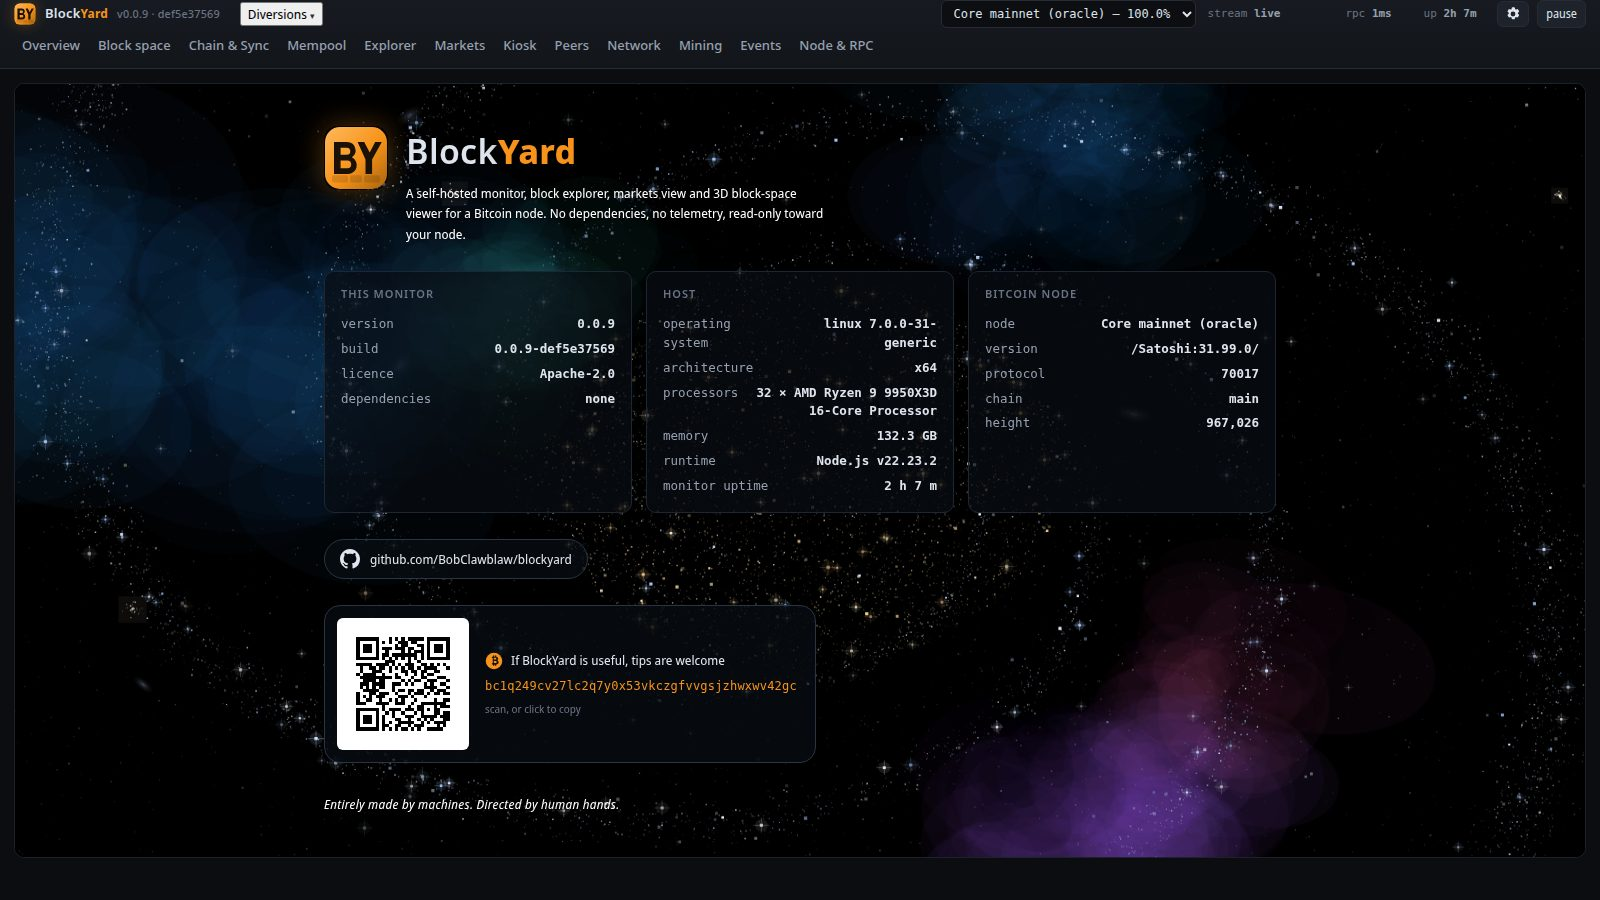
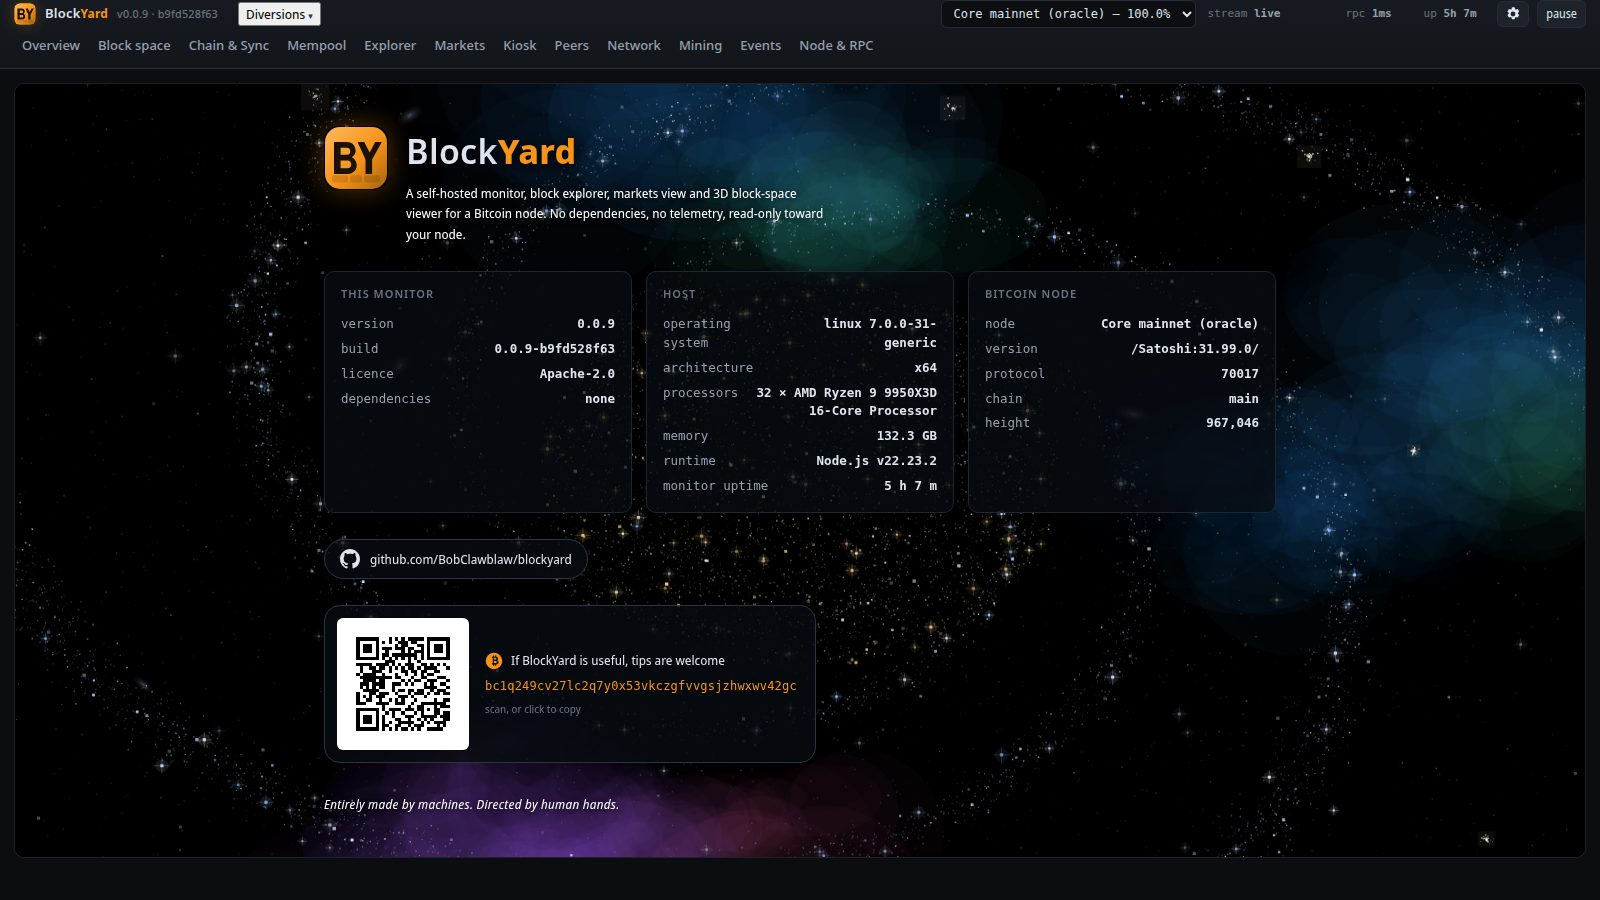
about: the donation QR is a PNG -- Safari painted the inline SVG's ground and none of its modules
Reported from the first Mac install (2026-09-15): a blank white square beside
the address. Chrome painted the SVG; WebKit painted its <rect> and not one of
the 800 module rects in the <path> inside that button. The QR is a bitmap now
(4 px a module, quiet zone included), written by the same script from the
same encoder, checked to decode to the address, served from the checkout and
crisp-edged in CSS. Re-shot for docs/images/about.jpg.

Claude-Session: https://claude.ai/code/session_01VUGT6cgEeqoW8d5V7E6Vng

diff --git a/public/index.html b/public/index.html
@@ -342,8 +342,10 @@
           <!-- The donation address: one click copies it (operator, 2026-09-14). A button, not a link:
                there is nowhere to go, and the address is the whole point. -->
           <button type="button" class="abdon" id="abDonate" data-copy="bc1q249cv27lc2q7y0x53vkczgfvvgsjzhwxwv42gc" title="click to copy the address">
-            <!-- The QR is the address itself, generated once (scripts/donate-qr.py) and checked to decode back to it. -->
-            <svg class="abqr" viewBox="0 0 41 41" width="132" height="132" role="img" aria-label="QR code of the donation address" shape-rendering="crispEdges"><rect width="41" height="41" fill="#fff"/><path fill="#000" d="M6 6h1v1h-1zM7 6h1v1h-1zM8 6h1v1h-1zM9 6h1v1h-1zM10 6h1v1h-1zM11 6h1v1h-1zM12 6h1v1h-1zM16 6h1v1h-1zM18 6h1v1h-1zM20 6h1v1h-1zM22 6h1v1h-1zM23 6h1v1h-1zM24 6h1v1h-1zM25 6h1v1h-1zM26 6h1v1h-1zM28 6h1v1h-1zM29 6h1v1h-1zM30 6h1v1h-1zM31 6h1v1h-1zM32 6h1v1h-1zM33 6h1v1h-1zM34 6h1v1h-1zM6 7h1v1h-1zM12 7h1v1h-1zM14 7h1v1h-1zM16 7h1v1h-1zM19 7h1v1h-1zM20 7h1v1h-1zM21 7h1v1h-1zM23 7h1v1h-1zM24 7h1v1h-1zM28 7h1v1h-1zM34 7h1v1h-1zM6 8h1v1h-1zM8 8h1v1h-1zM9 8h1v1h-1zM10 8h1v1h-1zM12 8h1v1h-1zM18 8h1v1h-1zM20 8h1v1h-1zM21 8h1v1h-1zM25 8h1v1h-1zM26 8h1v1h-1zM28 8h1v1h-1zM30 8h1v1h-1zM31 8h1v1h-1zM32 8h1v1h-1zM34 8h1v1h-1zM6 9h1v1h-1zM8 9h1v1h-1zM9 9h1v1h-1zM10 9h1v1h-1zM12 9h1v1h-1zM14 9h1v1h-1zM15 9h1v1h-1zM16 9h1v1h-1zM18 9h1v1h-1zM19 9h1v1h-1zM20 9h1v1h-1zM22 9h1v1h-1zM23 9h1v1h-1zM26 9h1v1h-1zM28 9h1v1h-1zM30 9h1v1h-1zM31 9h1v1h-1zM32 9h1v1h-1zM34 9h1v1h-1zM6 10h1v1h-1zM8 10h1v1h-1zM9 10h1v1h-1zM10 10h1v1h-1zM12 10h1v1h-1zM15 10h1v1h-1zM20 10h1v1h-1zM22 10h1v1h-1zM24 10h1v1h-1zM25 10h1v1h-1zM26 10h1v1h-1zM28 10h1v1h-1zM30 10h1v1h-1zM31 10h1v1h-1zM32 10h1v1h-1zM34 10h1v1h-1zM6 11h1v1h-1zM12 11h1v1h-1zM14 11h1v1h-1zM15 11h1v1h-1zM17 11h1v1h-1zM18 11h1v1h-1zM19 11h1v1h-1zM20 11h1v1h-1zM21 11h1v1h-1zM22 11h1v1h-1zM23 11h1v1h-1zM24 11h1v1h-1zM26 11h1v1h-1zM28 11h1v1h-1zM34 11h1v1h-1zM6 12h1v1h-1zM7 12h1v1h-1zM8 12h1v1h-1zM9 12h1v1h-1zM10 12h1v1h-1zM11 12h1v1h-1zM12 12h1v1h-1zM14 12h1v1h-1zM16 12h1v1h-1zM18 12h1v1h-1zM20 12h1v1h-1zM22 12h1v1h-1zM24 12h1v1h-1zM26 12h1v1h-1zM28 12h1v1h-1zM29 12h1v1h-1zM30 12h1v1h-1zM31 12h1v1h-1zM32 12h1v1h-1zM33 12h1v1h-1zM34 12h1v1h-1zM15 13h1v1h-1zM16 13h1v1h-1zM17 13h1v1h-1zM22 13h1v1h-1zM25 13h1v1h-1zM6 14h1v1h-1zM7 14h1v1h-1zM8 14h1v1h-1zM9 14h1v1h-1zM10 14h1v1h-1zM12 14h1v1h-1zM13 14h1v1h-1zM14 14h1v1h-1zM15 14h1v1h-1zM17 14h1v1h-1zM19 14h1v1h-1zM21 14h1v1h-1zM22 14h1v1h-1zM23 14h1v1h-1zM26 14h1v1h-1zM27 14h1v1h-1zM29 14h1v1h-1zM31 14h1v1h-1zM33 14h1v1h-1zM7 15h1v1h-1zM10 15h1v1h-1zM11 15h1v1h-1zM13 15h1v1h-1zM14 15h1v1h-1zM16 15h1v1h-1zM18 15h1v1h-1zM20 15h1v1h-1zM22 15h1v1h-1zM23 15h1v1h-1zM25 15h1v1h-1zM27 15h1v1h-1zM28 15h1v1h-1zM29 15h1v1h-1zM30 15h1v1h-1zM34 15h1v1h-1zM7 16h1v1h-1zM11 16h1v1h-1zM12 16h1v1h-1zM13 16h1v1h-1zM16 16h1v1h-1zM20 16h1v1h-1zM21 16h1v1h-1zM23 16h1v1h-1zM24 16h1v1h-1zM26 16h1v1h-1zM27 16h1v1h-1zM30 16h1v1h-1zM31 16h1v1h-1zM6 17h1v1h-1zM8 17h1v1h-1zM9 17h1v1h-1zM10 17h1v1h-1zM11 17h1v1h-1zM14 17h1v1h-1zM18 17h1v1h-1zM21 17h1v1h-1zM24 17h1v1h-1zM26 17h1v1h-1zM28 17h1v1h-1zM29 17h1v1h-1zM7 18h1v1h-1zM8 18h1v1h-1zM9 18h1v1h-1zM10 18h1v1h-1zM11 18h1v1h-1zM12 18h1v1h-1zM13 18h1v1h-1zM14 18h1v1h-1zM15 18h1v1h-1zM16 18h1v1h-1zM18 18h1v1h-1zM19 18h1v1h-1zM23 18h1v1h-1zM26 18h1v1h-1zM27 18h1v1h-1zM31 18h1v1h-1zM32 18h1v1h-1zM33 18h1v1h-1zM8 19h1v1h-1zM9 19h1v1h-1zM10 19h1v1h-1zM11 19h1v1h-1zM13 19h1v1h-1zM14 19h1v1h-1zM20 19h1v1h-1zM22 19h1v1h-1zM24 19h1v1h-1zM25 19h1v1h-1zM28 19h1v1h-1zM29 19h1v1h-1zM30 19h1v1h-1zM34 19h1v1h-1zM7 20h1v1h-1zM8 20h1v1h-1zM9 20h1v1h-1zM11 20h1v1h-1zM12 20h1v1h-1zM13 20h1v1h-1zM14 20h1v1h-1zM17 20h1v1h-1zM18 20h1v1h-1zM19 20h1v1h-1zM21 20h1v1h-1zM23 20h1v1h-1zM27 20h1v1h-1zM29 20h1v1h-1zM32 20h1v1h-1zM33 20h1v1h-1zM7 21h1v1h-1zM9 21h1v1h-1zM11 21h1v1h-1zM13 21h1v1h-1zM14 21h1v1h-1zM17 21h1v1h-1zM27 21h1v1h-1zM28 21h1v1h-1zM29 21h1v1h-1zM30 21h1v1h-1zM34 21h1v1h-1zM8 22h1v1h-1zM9 22h1v1h-1zM10 22h1v1h-1zM11 22h1v1h-1zM12 22h1v1h-1zM17 22h1v1h-1zM19 22h1v1h-1zM20 22h1v1h-1zM22 22h1v1h-1zM23 22h1v1h-1zM25 22h1v1h-1zM26 22h1v1h-1zM29 22h1v1h-1zM31 22h1v1h-1zM32 22h1v1h-1zM33 22h1v1h-1zM6 23h1v1h-1zM10 23h1v1h-1zM11 23h1v1h-1zM13 23h1v1h-1zM14 23h1v1h-1zM15 23h1v1h-1zM18 23h1v1h-1zM22 23h1v1h-1zM24 23h1v1h-1zM25 23h1v1h-1zM26 23h1v1h-1zM28 23h1v1h-1zM30 23h1v1h-1zM31 23h1v1h-1zM33 23h1v1h-1zM34 23h1v1h-1zM6 24h1v1h-1zM8 24h1v1h-1zM10 24h1v1h-1zM12 24h1v1h-1zM13 24h1v1h-1zM14 24h1v1h-1zM19 24h1v1h-1zM20 24h1v1h-1zM21 24h1v1h-1zM23 24h1v1h-1zM27 24h1v1h-1zM6 25h1v1h-1zM9 25h1v1h-1zM10 25h1v1h-1zM13 25h1v1h-1zM16 25h1v1h-1zM18 25h1v1h-1zM20 25h1v1h-1zM24 25h1v1h-1zM30 25h1v1h-1zM33 25h1v1h-1zM34 25h1v1h-1zM6 26h1v1h-1zM7 26h1v1h-1zM8 26h1v1h-1zM12 26h1v1h-1zM13 26h1v1h-1zM14 26h1v1h-1zM15 26h1v1h-1zM18 26h1v1h-1zM19 26h1v1h-1zM20 26h1v1h-1zM23 26h1v1h-1zM26 26h1v1h-1zM27 26h1v1h-1zM28 26h1v1h-1zM29 26h1v1h-1zM30 26h1v1h-1zM31 26h1v1h-1zM32 26h1v1h-1zM33 26h1v1h-1zM14 27h1v1h-1zM22 27h1v1h-1zM25 27h1v1h-1zM26 27h1v1h-1zM30 27h1v1h-1zM32 27h1v1h-1zM33 27h1v1h-1zM34 27h1v1h-1zM6 28h1v1h-1zM7 28h1v1h-1zM8 28h1v1h-1zM9 28h1v1h-1zM10 28h1v1h-1zM11 28h1v1h-1zM12 28h1v1h-1zM14 28h1v1h-1zM16 28h1v1h-1zM17 28h1v1h-1zM18 28h1v1h-1zM19 28h1v1h-1zM21 28h1v1h-1zM22 28h1v1h-1zM23 28h1v1h-1zM25 28h1v1h-1zM26 28h1v1h-1zM28 28h1v1h-1zM30 28h1v1h-1zM31 28h1v1h-1zM6 29h1v1h-1zM12 29h1v1h-1zM15 29h1v1h-1zM17 29h1v1h-1zM20 29h1v1h-1zM24 29h1v1h-1zM26 29h1v1h-1zM30 29h1v1h-1zM31 29h1v1h-1zM33 29h1v1h-1zM34 29h1v1h-1zM6 30h1v1h-1zM8 30h1v1h-1zM9 30h1v1h-1zM10 30h1v1h-1zM12 30h1v1h-1zM14 30h1v1h-1zM17 30h1v1h-1zM21 30h1v1h-1zM22 30h1v1h-1zM23 30h1v1h-1zM26 30h1v1h-1zM27 30h1v1h-1zM28 30h1v1h-1zM29 30h1v1h-1zM30 30h1v1h-1zM32 30h1v1h-1zM33 30h1v1h-1zM34 30h1v1h-1zM6 31h1v1h-1zM8 31h1v1h-1zM9 31h1v1h-1zM10 31h1v1h-1zM12 31h1v1h-1zM14 31h1v1h-1zM18 31h1v1h-1zM19 31h1v1h-1zM22 31h1v1h-1zM25 31h1v1h-1zM27 31h1v1h-1zM29 31h1v1h-1zM33 31h1v1h-1zM34 31h1v1h-1zM6 32h1v1h-1zM8 32h1v1h-1zM9 32h1v1h-1zM10 32h1v1h-1zM12 32h1v1h-1zM14 32h1v1h-1zM16 32h1v1h-1zM19 32h1v1h-1zM20 32h1v1h-1zM21 32h1v1h-1zM22 32h1v1h-1zM23 32h1v1h-1zM26 32h1v1h-1zM28 32h1v1h-1zM30 32h1v1h-1zM31 32h1v1h-1zM32 32h1v1h-1zM33 32h1v1h-1zM6 33h1v1h-1zM12 33h1v1h-1zM14 33h1v1h-1zM15 33h1v1h-1zM18 33h1v1h-1zM19 33h1v1h-1zM22 33h1v1h-1zM24 33h1v1h-1zM25 33h1v1h-1zM26 33h1v1h-1zM31 33h1v1h-1zM33 33h1v1h-1zM6 34h1v1h-1zM7 34h1v1h-1zM8 34h1v1h-1zM9 34h1v1h-1zM10 34h1v1h-1zM11 34h1v1h-1zM12 34h1v1h-1zM14 34h1v1h-1zM16 34h1v1h-1zM18 34h1v1h-1zM20 34h1v1h-1zM21 34h1v1h-1zM23 34h1v1h-1zM25 34h1v1h-1zM28 34h1v1h-1zM29 34h1v1h-1zM30 34h1v1h-1zM31 34h1v1h-1zM32 34h1v1h-1z"/></svg>
+            <!-- The QR is the address itself, generated once (scripts/donate-qr.py) and checked to decode back to it.
+                 A PNG, not an inline SVG: Safari on the first Mac install painted the SVG's white ground and
+                 not one of its 800 module rects (2026-09-15), and a bitmap is painted the same everywhere. -->
+            <img class="abqr" src="/donate-qr.png" width="132" height="132" alt="QR code of the donation address" decoding="async">
             <span class="abdontext">
               <span class="abdonlbl"><svg viewBox="0 0 24 24" width="18" height="18" aria-hidden="true" focusable="false"><circle cx="12" cy="12" r="11" fill="var(--accent)"/><path fill="#1a1206" d="M9.2 6.2h1.5V4.8h1.6v1.4h1.1V4.8H15v1.5c1.6.3 2.6 1.2 2.6 2.7 0 1-.5 1.8-1.3 2.2 1.2.4 1.9 1.3 1.9 2.6 0 1.8-1.3 2.8-3.2 3v1.5h-1.6v-1.4h-1.1v1.4h-1.6v-1.5H9.2v-1.8h1.1V8h-1.1zm2.6 3.9h1.7c1 0 1.6-.4 1.6-1.2 0-.8-.6-1.2-1.6-1.2h-1.7zm0 4.4h2c1.1 0 1.8-.5 1.8-1.3s-.7-1.3-1.8-1.3h-2z"/></svg> If BlockYard is useful, tips are welcome</span>
               <code>bc1q249cv27lc2q7y0x53vkczgfvvgsjzhwxwv42gc</code>

diff --git a/public/css/app.css b/public/css/app.css
@@ -109,7 +109,7 @@ button.brand:focus-visible { outline: 2px solid var(--accent); outline-offset: 3
 /* the donation address: the same pill, and the whole thing is the copy button */
 .abdon { display: inline-flex; align-items: center; gap: 16px; align-self: flex-start; padding: 12px 18px 12px 12px; border-radius: 16px;
   border: 1px solid #2a3543; background: rgba(8, 12, 18, .8); color: var(--fg); font: inherit; font-size: 13px; cursor: pointer; text-align: left; }
-.abdon .abqr { flex: 0 0 auto; width: 132px; height: 132px; border-radius: 6px; }
+.abdon .abqr { flex: 0 0 auto; width: 132px; height: 132px; border-radius: 6px; image-rendering: pixelated; image-rendering: crisp-edges; background: #fff; }
 .abdon .abdontext { display: flex; flex-direction: column; gap: 6px; min-width: 0; }
 .abdon .abdonlbl { display: inline-flex; align-items: center; gap: 8px; }
 .abdon code { font-size: 12px; letter-spacing: .2px; color: var(--accent); word-break: break-all; }

diff --git a/scripts/donate-qr.py b/scripts/donate-qr.py
@@ -1,7 +1,9 @@
 #!/usr/bin/env python3
-# Regenerate the donation QR in public/index.html (the <svg class="abqr">) from the address below,
-# with OpenCV's encoder, and check the modules written decode back to the address. Run by hand when
-# the address changes; the SVG is committed, so nothing is generated at run time or in the browser.
+# Regenerate the donation QR (public/donate-qr.png, 4 px a module with the 4-module quiet zone) from
+# the address below, with OpenCV's encoder, and check the modules written decode back to the address.
+# Run by hand when the address changes; the PNG is committed, so nothing is generated at run time or
+# in the browser. It was an inline SVG until 2026-09-15, when Safari painted its ground and none of
+# its module rects; a bitmap is painted the same everywhere.
 import cv2, numpy as np, re, sys
 ADDR = 'bc1q249cv27lc2q7y0x53vkczgfvvgsjzhwxwv42gc'
 img = cv2.QRCodeEncoder.create().encode(ADDR)
@@ -12,9 +14,10 @@ for mm in re.finditer(r'M(\d+) (\d+)h1v1h-1z', d):
     x, y = int(mm.group(1)), int(mm.group(2)); m[y*8:(y+1)*8, x*8:(x+1)*8] = 0
 data, _, _ = cv2.QRCodeDetector().detectAndDecode(m)
 if data != ADDR: sys.exit(f'the QR does not decode to the address: {data!r}')
-svg = f'<svg class="abqr" viewBox="0 0 {size} {size}" width="132" height="132" role="img" aria-label="QR code of the donation address" shape-rendering="crispEdges"><rect width="{size}" height="{size}" fill="#fff"/><path fill="#000" d="{d}"/></svg>'
-p = 'public/index.html'; s = open(p).read()
-s2 = re.sub(r'<svg class="abqr".*?</svg>', svg, s, count=1, flags=re.S)
-if s2 == s and svg not in s: sys.exit('no <svg class="abqr"> in public/index.html to replace')
-open(p, 'w').write(s2)
-print(f'{n}x{n} modules, decodes to {data}')
+png = np.full((size * 4, size * 4), 255, np.uint8)
+for mm in re.finditer(r'M(\d+) (\d+)h1v1h-1z', d):
+    x, y = int(mm.group(1)), int(mm.group(2)); png[y*4:(y+1)*4, x*4:(x+1)*4] = 0
+cv2.imwrite('public/donate-qr.png', png)
+check, _, _ = cv2.QRCodeDetector().detectAndDecode(cv2.imread('public/donate-qr.png'))
+if check != ADDR: sys.exit(f'the PNG does not decode to the address: {check!r}')
+print(f'{n}x{n} modules, public/donate-qr.png decodes to {check}')

diff --git a/CHANGELOG.md b/CHANGELOG.md
@@ -18,6 +18,10 @@ All notable changes to this project are documented here. The format follows
 
 ### Fixed
 
+- **The donation QR shows on Safari.** It was an inline SVG of 800 module rects, and Safari on
+  the first Mac install painted its white ground and none of the rects. It is a PNG now
+  (`public/donate-qr.png`, from the same generator, checked to decode to the address), painted
+  the same everywhere.
 - **A dead index worker fails the build instead of hanging it.** The worker pool listened for a
   reply only, so a worker killed outright (out of memory, with four beside the node) left its job
   unanswered and the build sat at "scan 5,720 of 5,721, about 1 s left" for an hour and a half on
